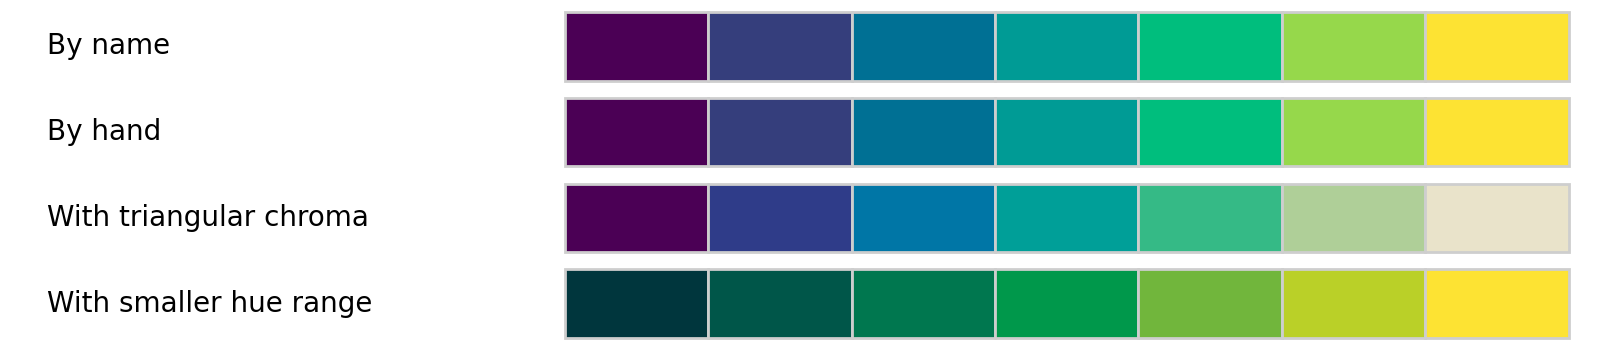
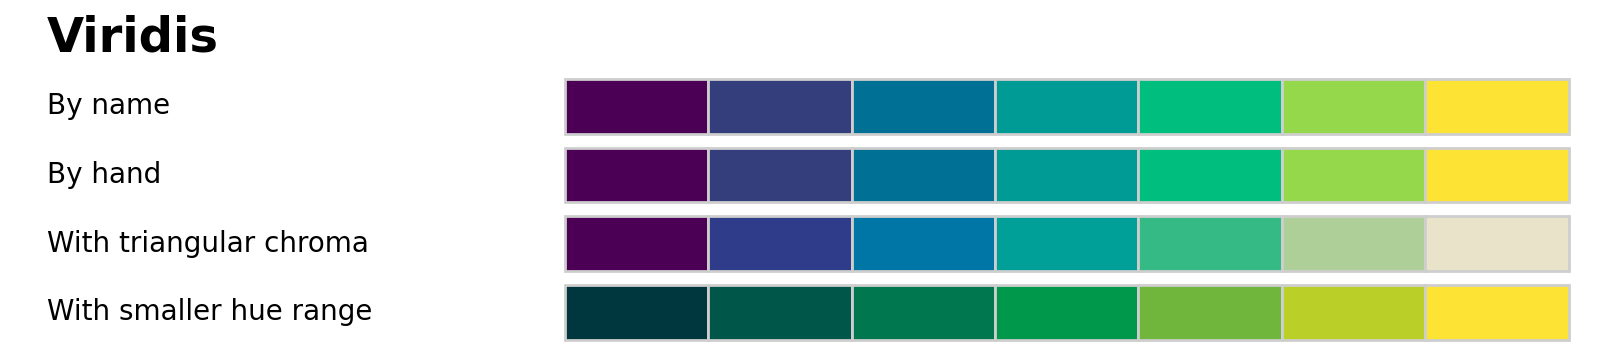
fix: Replaced CVD example, added one more ref, added temporary title to swatchplot plot

diff --git a/paper_assets/paper_makefigures.py b/paper_assets/paper_makefigures.py
@@ -41,11 +41,12 @@ pal2 = sequential_hcl(h = [300, 75], c = [40, 95], l = [15, 90], power = [1., 1.
 pal3 = sequential_hcl(palette = "viridis", cmax = 90,  c2 = 20)
 pal4 = sequential_hcl(palette = "viridis", h1 = 200)
 
-fig = swatchplot([palette(pal1(7), "By name"),
-            palette(pal2(7), "By hand"),
-            palette(pal3(7), "With triangular chroma"),
-            palette(pal4(7), "With smaller hue range")],
-            figsize = (8, 1.75));
+fig = swatchplot({"Viridis": [
+               palette(pal1(7), "By name"),
+               palette(pal2(7), "By hand"),
+               palette(pal3(7), "With triangular chroma"),
+               palette(pal4(7), "With smaller hue range")
+            ]}, figsize = (8, 1.75));
 fig.savefig("fig-chosing-palettes.png", transparent = False, dpi = 200)
 plt.close()
 
@@ -87,22 +88,48 @@ plt.close()
 # Chosing/defining palettes
 # - Creates "fig-cvd.png"
 # ------------------------------------------------------
-from colorspace import demoplot, rainbow, sequential_hcl, deutan
-from colorspace import diverging_hcl
+
+# --------------- THIS IS THE MAP VERSION USED ORIGINALLY ---------------
+#from colorspace import demoplot, rainbow, sequential_hcl, deutan
+#import matplotlib.pyplot as plt
+#
+#col1 = rainbow(end = 1/3, rev = True).colors(11)
+#col2 = sequential_hcl("Blue-Yellow", rev = True).colors(11)
+#
+#fig, ax = plt.subplots(2, 2, figsize = (10, 5))
+#
+#demoplot(col1, "Map", ax = ax[0,0], title = "(In-)famous Rainbow palette", ylabel = "original")
+#demoplot(col2, "Map", ax = ax[0,1], title = "HCL-based Blue-Yellow")
+#demoplot(deutan(col1), "Map", ax = ax[1,0], ylabel = "deuteranope")
+#demoplot(deutan(col2), "Map", ax = ax[1,1])
+#
+#fig.savefig("fig-cvd.png", dpi = 150)
+#plt.close() # Importante
+# --------------- THIS IS THE MAP VERSION USED ORIGINALLY ---------------
+
+
+# --------------- THIS IS THE VOLCANO (HEATMAP) VERSION -----------------
+from colorspace import rainbow, sequential_hcl
+from colorspace import demoplot, deutan, desaturate
 import matplotlib.pyplot as plt
 
-col1 = rainbow(end = 1/3, rev = True).colors(11)
-col2 = sequential_hcl("Blue-Yellow", rev = True).colors(11)
+col1 = rainbow(end = 2/3, rev = True)(7)
+col2 = sequential_hcl("Blue-Yellow", rev = True)(7)
 
-fig, ax = plt.subplots(2, 2, figsize = (10, 5))
+fig, ax = plt.subplots(2, 3, figsize = (9, 4))
+plt.tight_layout()
 
-demoplot(col1, "Map", ax = ax[0,0], title = "(In-)famous Rainbow palette", ylabel = "original")
-demoplot(col2, "Map", ax = ax[0,1], title = "HCL-based Blue-Yellow")
-demoplot(deutan(col1), "Map", ax = ax[1,0], ylabel = "deuteranope")
-demoplot(deutan(col2), "Map", ax = ax[1,1])
+demoplot(col1, "Heatmap", ax = ax[0,0], ylabel = "Rainbow", title = "Original")
+demoplot(col2, "Heatmap", ax = ax[1,0], ylabel = "HCL (Blue-Yellow)")
+
+demoplot(deutan(col1), "Heatmap", ax = ax[0,1], title = "Deuteranope")
+demoplot(deutan(col2), "Heatmap", ax = ax[1,1])
+demoplot(desaturate(col1), "Heatmap", ax = ax[0,2], title = "Desaturated")
+demoplot(desaturate(col2), "Heatmap", ax = ax[1,2])
 
 fig.savefig("fig-cvd.png", dpi = 150)
 plt.close() # Importante
+# --------------- THIS IS THE VOLCANO (HEATMAP) VERSION -----------------
 
 
 # ------------------------------------------------------

diff --git a/paper.md b/paper.md
@@ -9,11 +9,9 @@ tags:
 authors:
   - name: Reto Stauffer
     orcid: 0000-0002-3798-5507
-    equal-contrib: true
     affiliation: "1, 2"
   - name: Achim Zeileis
     orcid: 0000-0003-0918-3766
-    equal-contrib: true
     affiliation: 1
 affiliations:
  - name: Department of Statistics, University of Innsbruck
@@ -36,9 +34,11 @@ properties. Finally, the color palettes generated by the package can be easily
 integrated into standard visualization in Python, e.g., using
 _matplotlib_, _seaborn_, or _plotly_.
 
-**Dumping here**
+**Dumping here:** These are all packages which provide color palettes,
+all on fixed RGB sets.
 
 - `colormaps` [@colormaps]
+- `colormap` [@colormap]
 - `seaborn` [@seaborn]
 - `matplotlib` [@matplotlib]
 - `palettable` [@palettable]
@@ -146,11 +146,12 @@ pal2 = sequential_hcl(h = [300, 75], c = [40, 95], l = [15, 90],
 pal3 = sequential_hcl(palette = "viridis", cmax = 90,  c2 = 20)
 pal4 = sequential_hcl(palette = "viridis", h1 = 200)
 
-swatchplot([palette(pal1(7), "By name"),
-            palette(pal2(7), "By hand"),
-            palette(pal3(7), "With triangular chroma"),
-            palette(pal4(7), "With smaller hue range")],
-            figsize = (8, 1.75));
+swatchplot({"Viridis": [
+               palette(pal1(7), "By name"), 
+               palette(pal2(7), "By hand"),
+               palette(pal3(7), "With triangular chroma"),
+               palette(pal4(7), "With smaller hue range")
+           ]}, figsize = (8, 1.75));
 ```
 
 ![Swatches of four sequential palettes constructed using the HCL color space. (`pal1`) Predefined HCL-based viridis palette, (`pal2`) identical but created by hand, (`pal3`/`pal4`) are modified versions with triangular chroma trajectory and reduced hue range.\label{fig:chosingpalettes}](paper_assets/fig-chosing-palettes.png)
@@ -222,20 +223,24 @@ for a long time with little caution and can still be found in use today.
 
 
 ```
-from colorspace import demoplot, rainbow, sequential_hcl, deutan
-from colorspace import diverging_hcl
+from colorspace import rainbow, sequential_hcl
+from colorspace import demoplot, deutan, desaturate
 import matplotlib.pyplot as plt
 
-col1 = rainbow(end = 1/3, rev = True).colors(11)
-col2 = sequential_hcl("Blue-Yellow", rev = True).colors(11)
+# Palettes to be used
+col1 = rainbow(end = 2/3, rev = True)(7)
+col2 = sequential_hcl("Blue-Yellow", rev = True)(7)
 
-fig, ax = plt.subplots(2, 2, figsize = (10, 5))
+fig, ax = plt.subplots(2, 3, figsize = (9, 4))
 
-demoplot(col1, "Map", ax = ax[0,0], title = "(In-)famous Rainbow palette",
-         ylabel = "original")
-demoplot(col2, "Map", ax = ax[0,1], title = "HCL-based Blue-Yellow")
-demoplot(deutan(col1), "Map", ax = ax[1,0], ylabel = "deuteranope")
-demoplot(deutan(col2), "Map", ax = ax[1,1])
+demoplot(col1, "Heatmap", ax = ax[0,0], ylabel = "Rainbow", title = "Original")
+demoplot(col2, "Heatmap", ax = ax[1,0], ylabel = "HCL (Blue-Yellow)")
+demoplot(deutan(col1), "Heatmap", ax = ax[0,1], title = "Deuteranope")
+demoplot(deutan(col2), "Heatmap", ax = ax[1,1])
+demoplot(desaturate(col1), "Heatmap", ax = ax[0,2], title = "Desaturated")
+demoplot(desaturate(col2), "Heatmap", ax = ax[1,2])
+
+plt.show()
 ```
 
 ![Example of spatial data using an RGB rainbow based color palette (left) and a sequential HCL palette (right). The top row shows the original colors, the bottom row an emulation how people with deuteranomaly perceive the information.\label{fig-cvd}](paper_assets/fig-cvd.png)
@@ -277,7 +282,6 @@ plt.xlabel("minimum temperature [deg C]")
 plt.ylabel("maximum temperature [deg C]")
 plt.show()
 
-
 # Demoplot using `seaborn`
 from colorspace import qualitative_hcl, dataset
 import seaborn as sns 
@@ -290,7 +294,6 @@ g = sns.displot(data = df, x = "tempmax", hue = "season", fill = "season",
                 palette = pal.colors(4))
 g.set_axis_labels("temperature [deg C]")              
 g.set(title = "Distribution of daily maximum temperature given season")
-plt.tight_layout()
 plt.show()
 ```
 
@@ -306,16 +309,16 @@ With a light-weight design in mind, most core functionality only requires `numpy
 `pandas` [@pandas] will need to be installed.
 
 _colorspace_ is available via [PyPI](https://pypi.org/project/colorspace).
-[source code](https://github.com/retostauffer/python-colorspace) and
-[package documentation](https://retostauffer.github.io/python-colorspace/) are
+[Source code](https://github.com/retostauffer/python-colorspace) and
+[documentation](https://retostauffer.github.io/python-colorspace/) are
 hosted on github, where bug reports, software contributions and feature requests
-are always welcome.
+are warmly welcome.
 
 
 # Acknowledgements
 
-**RETO: Brauchen wir sowas? Haette sonst hier noch der alten R-colorspace-Gang
-gedankt, aber Platz ist eigentlich eh keiner.**
+**RETO: Brauchen wir sowas? Die JOSS Artikel die ich gesehen habe haben hier
+nur Projekte/Finanzierungen gelistet.**
 
 
 # References
